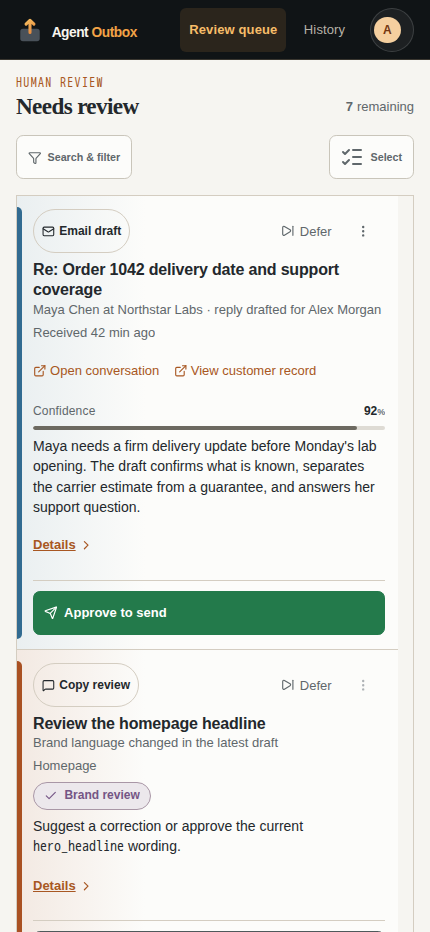
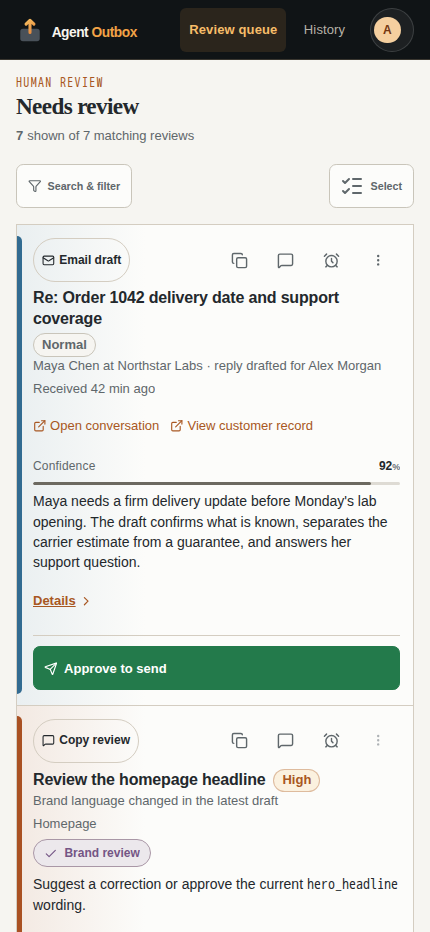
fix: memoize context links, retain backlog item, and refresh marketing screenshots

diff --git a/src/components/human/ReviewList.tsx b/src/components/human/ReviewList.tsx
@@ -1,6 +1,6 @@
 import { Check, Copy, MoreVertical, AlarmClock, Undo2 } from "lucide-react";
 import Link from "next/link";
-import { useState, type CSSProperties, type ReactNode } from "react";
+import { useMemo, useState, type CSSProperties, type ReactNode } from "react";
 import { flushSync } from "react-dom";
 
 import type { HumanReviewListRow } from "../../server/human-review.ts";
@@ -13,7 +13,11 @@ import { InlineQuickAction, type OnHumanMutation } from "./ActionForms";
 import { formatQueueTimestamp, formatUtcTimestamp } from "./review-format";
 import { CardVisual, HumanIcon, SafeHtml, safeHref } from "./TypedContent";
 import { ReviewRowFrame } from "./ReviewRowFrame";
-import { ReviewRowHeading } from "./ReviewRowHeading";
+import {
+  ReviewRowHeading,
+  type ReviewRowHeadingLink,
+  type ReviewRowHeadingProps
+} from "./ReviewRowHeading";
 import { Feedback } from "./Feedback";
 import { actionAppearanceClass } from "./action-appearance";
 import { formatReviewPriority } from "./review-format";
@@ -76,20 +80,6 @@ export function ReviewList({
         const overflowActions = row.bulkActions.filter(
           (action) => action.overflow
         );
-        const contextLinks = (row.linkButtons ?? []).flatMap((link) => {
-          const href = safeHref(link.url);
-          return href
-            ? [
-                {
-                  key: link.displayOrder,
-                  display: link.display,
-                  icon: link.icon,
-                  href,
-                  external: true
-                }
-              ]
-            : [];
-        });
         return (
           <OptimisticReviewRow key={row.inputItemId} onMutation={onMutation}>
             {(handleMutation) => (
@@ -129,7 +119,8 @@ export function ReviewList({
                     ) : null
                   }
                   heading={
-                    <ReviewRowHeading
+                    <ReviewListHeading
+                      linkButtons={row.linkButtons}
                       rowTypeDisplay={row.rowType.display}
                       rowTypeIcon={row.rowType.icon}
                       corner={
@@ -148,7 +139,6 @@ export function ReviewList({
                           </time>
                         )
                       }
-                      contextLinks={contextLinks}
                       contextAfter={
                         <>
                           {skippedIds.has(row.inputItemId) ? (
@@ -348,6 +338,38 @@ export function ReviewList({
       })}
     </ol>
   );
+}
+
+function reviewRowContextLinks(
+  linkButtons: HumanReviewListRow["linkButtons"]
+): ReviewRowHeadingLink[] {
+  return (linkButtons ?? []).flatMap((link) => {
+    const href = safeHref(link.url);
+    return href
+      ? [
+          {
+            key: link.displayOrder,
+            display: link.display,
+            icon: link.icon,
+            href,
+            external: true
+          }
+        ]
+      : [];
+  });
+}
+
+function ReviewListHeading({
+  linkButtons,
+  ...heading
+}: Omit<ReviewRowHeadingProps, "contextLinks"> & {
+  linkButtons: HumanReviewListRow["linkButtons"];
+}) {
+  const contextLinks = useMemo(
+    () => reviewRowContextLinks(linkButtons),
+    [linkButtons]
+  );
+  return <ReviewRowHeading {...heading} contextLinks={contextLinks} />;
 }
 
 function CopyIdentifier({ identifier }: { identifier: string }) {

diff --git a/src/components/human/ReviewRowHeading.tsx b/src/components/human/ReviewRowHeading.tsx
@@ -12,15 +12,7 @@ export type ReviewRowHeadingLink = {
   external?: boolean;
 };
 
-export function ReviewRowHeading({
-  rowTypeDisplay,
-  rowTypeIcon,
-  corner,
-  contextLinks = [],
-  contextAfter,
-  utilities,
-  slotClassNames
-}: {
+export type ReviewRowHeadingProps = {
   rowTypeDisplay: ReactNode;
   rowTypeIcon: string;
   corner?: ReactNode;
@@ -28,7 +20,19 @@ export function ReviewRowHeading({
   contextAfter?: ReactNode;
   utilities?: ReactNode;
   slotClassNames?: Partial<Record<"rowType" | "contextLinks", string>>;
-}) {
+};
+
+const EMPTY_CONTEXT_LINKS: ReviewRowHeadingLink[] = [];
+
+export function ReviewRowHeading({
+  rowTypeDisplay,
+  rowTypeIcon,
+  corner,
+  contextLinks = EMPTY_CONTEXT_LINKS,
+  contextAfter,
+  utilities,
+  slotClassNames
+}: ReviewRowHeadingProps) {
   const linksRef = useRef<HTMLSpanElement>(null);
   const [scroll, setScroll] = useState({
     overflow: false,
@@ -40,11 +44,17 @@ export function ReviewRowHeading({
     if (!links) return;
     function update() {
       if (!links) return;
-      setScroll({
-        overflow: links.scrollWidth > links.clientWidth + 1,
-        left: links.scrollLeft > 1,
-        right: links.scrollLeft + links.clientWidth < links.scrollWidth - 1
-      });
+      const overflow = links.scrollWidth > links.clientWidth + 1;
+      const left = links.scrollLeft > 1;
+      const right =
+        links.scrollLeft + links.clientWidth < links.scrollWidth - 1;
+      setScroll((current) =>
+        current.overflow === overflow &&
+        current.left === left &&
+        current.right === right
+          ? current
+          : { overflow, left, right }
+      );
     }
     const observer = new ResizeObserver(update);
     observer.observe(links);

diff --git a/src/components/human/ReviewRowAnatomyFrame.tsx b/src/components/human/ReviewRowAnatomyFrame.tsx
@@ -9,7 +9,28 @@ import { resolveSupportedColor } from "../../shared/input-schema-rules.ts";
 import { actionAppearanceClass } from "./action-appearance";
 import { CardVisual } from "./TypedContent";
 import { ReviewRowFrame } from "./ReviewRowFrame";
-import { ReviewRowHeading } from "./ReviewRowHeading";
+import {
+  ReviewRowHeading,
+  type ReviewRowHeadingLink
+} from "./ReviewRowHeading";
+
+const ANATOMY_CONTEXT_LINKS: ReviewRowHeadingLink[] = [
+  {
+    key: "example-context-link",
+    display: REVIEW_ROW_ANATOMY_PARTS.contextLinks.label,
+    icon: "external-link",
+    href: "#review-row-anatomy"
+  }
+];
+
+const EXAMPLE_CONTEXT_LINKS: ReviewRowHeadingLink[] = [
+  {
+    key: "example-context-link",
+    display: "View thread",
+    icon: "external-link",
+    href: "#review-row-anatomy"
+  }
+];
 
 export type ReviewRowPreviewMode = "anatomy" | "example";
 
@@ -50,16 +71,9 @@ export function ReviewRowAnatomyFrame({
                       : "Acme Corp · 4 min ago"}
                   </span>
                 }
-                contextLinks={[
-                  {
-                    key: "example-context-link",
-                    display: annotated
-                      ? REVIEW_ROW_ANATOMY_PARTS.contextLinks.label
-                      : "View thread",
-                    icon: "external-link",
-                    href: "#review-row-anatomy"
-                  }
-                ]}
+                contextLinks={
+                  annotated ? ANATOMY_CONTEXT_LINKS : EXAMPLE_CONTEXT_LINKS
+                }
                 contextAfter={
                   annotated ? (
                     <span className="priority priority-high">

diff --git a/docs/agent-layer/BACKLOG.md b/docs/agent-layer/BACKLOG.md
@@ -45,6 +45,12 @@ Unscheduled user-visible features and tasks (distinct from issues; not refactors
     Acceptance criteria: The page reports decision activity from canonical review history without changing queue or undo semantics, and the primary navigation exposes only Review queue, History, and Stats.
     Notes: Define the actual measures after observing real usage; do not add vanity metrics speculatively.
 
+- Backlog 2026-08-16 always-available-free-form-response: Optional always-visible free-form response
+    Priority: Medium. Area: human review, settings
+    Description: Add a dedicated setting that lets users keep a free-form response composer visible for every review, independently of caller-defined action buttons.
+    Acceptance criteria: Users can enable or disable the setting; when enabled, every review exposes the free-form response affordance without replacing or masquerading as an API-defined action.
+    Notes: Treat this as a product-level response mode, not another caller-configured button. Optional answer feedback shipped separately and does not satisfy this setting.
+
 - Backlog 2026-08-16 tight-review-mode: Ultra-compact review queue mode
     Priority: Medium. Area: human review, display settings
     Description: Add an optional tight mode that compresses the current review UI, hides most secondary information, and favors icon-only controls for high-density scanning.
